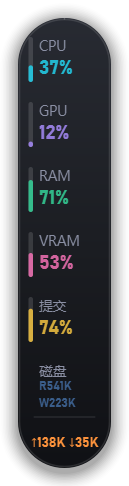
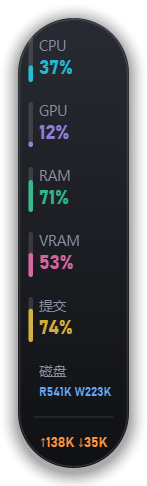
横版胶囊底部占用条去掉读写两段；竖版磁盘读写合并为单行，竖向胶囊加宽到 74

diff --git a/ui/island.py b/ui/island.py
@@ -116,7 +116,7 @@ class IslandWindow(QWidget):
     COLLAPSED_W = 420        # 右端速率贴紧指标后按实测最宽内容定的宽，整体更紧凑
     COLLAPSED_H_IDLE = 52
     COLLAPSED_H_PLAY = 68
-    SIDE_W = 62             # 贴左右两侧时的竖向胶囊（本体尺寸，不含 INSET）
+    SIDE_W = 74             # 贴左右两侧时的竖向胶囊（本体尺寸，不含 INSET）；磁盘读写合并一行后要更宽
     SIDE_H = 300
     PAGE_SIZES = {
         "monitor": QSize(640, 350),
@@ -2004,7 +2004,7 @@ class IslandWindow(QWidget):
                 p.drawText(QRectF(x + 8, cy - 12, avail, 24),
                            Qt.AlignLeft | Qt.AlignVCenter, net_txt)
 
-        # 底部：有声音就变成频谱律动，没声音回到占用条（CPU/GPU/RAM/VRAM/读/写 六段）
+        # 底部：有声音就变成频谱律动，没声音回到占用条（CPU/GPU/RAM/VRAM 四段）
         bar_y = body.bottom() - 3
         if self._spec_level > 0.01 or media.get("playing"):
             self._paint_micro_spec(
@@ -2014,18 +2014,15 @@ class IslandWindow(QWidget):
             return
         bar_h = 2.2
         gap = 6
-        disk_pct_r = min(100.0, (d.get("disk_r", 0.0) or 0.0) / 104857600.0 * 100.0)
-        disk_pct_w = min(100.0, (d.get("disk_w", 0.0) or 0.0) / 104857600.0 * 100.0)
         segs = [(pct, color) for _, _, pct, color in items]
-        segs += [(disk_pct_r, T.DISK), (disk_pct_w, T.DISK)]
         seg_w = (body.width() - margin * 2 - gap * (len(segs) - 1)) / float(len(segs))
         bx = left
-        for idx, (pct, color) in enumerate(segs):
+        for pct, color in segs:
             p.setPen(Qt.NoPen)
             p.setBrush(QColor(255, 255, 255, 22))
             p.drawRoundedRect(QRectF(bx, bar_y, seg_w, bar_h), 1.1, 1.1)
             c = T.load_color(pct, color)
-            c.setAlpha(130 if idx >= len(segs) - 2 and idx == len(segs) - 1 else 190)
+            c.setAlpha(190)
             p.setBrush(c)
             fill_w = seg_w * max(0.0, min(pct, 100.0)) / 100.0
             if fill_w > 1:
@@ -2097,14 +2094,12 @@ class IslandWindow(QWidget):
             p.setPen(T.MUTED)
             p.drawText(QRectF(tx, block_top, tw, 12), Qt.AlignLeft | Qt.AlignVCenter, label)
             if label == "磁盘":
-                # 磁盘读写速率两位太宽，拆成上下两行更清楚
+                # 竖版一行放不下两种速率，缩到 8px 单行写 R/W
                 p.setFont(vf_small)
                 p.setPen(T.DISK)
-                p.drawText(QRectF(tx, block_top + 11, tw, 11),
+                p.drawText(QRectF(tx, block_top + 13, tw, 14),
                            Qt.AlignLeft | Qt.AlignVCenter,
-                           f"R{self._brief_rate(d.get('disk_r', 0.0))}")
-                p.drawText(QRectF(tx, block_top + 22, tw, 11),
-                           Qt.AlignLeft | Qt.AlignVCenter,
+                           f"R{self._brief_rate(d.get('disk_r', 0.0))} "
                            f"W{self._brief_rate(d.get('disk_w', 0.0))}")
                 continue
             small = label in ("NET", "磁盘")

diff --git a/tools/side_w_measure.py b/tools/side_w_measure.py
@@ -1,0 +1,19 @@
+# -*- coding: utf-8 -*-
+"""量竖版磁盘行单行需要多宽，确定 SIDE_W。"""
+import os
+import sys
+
+sys.path.insert(0, r"D:\Doubao\桌面Hub")
+sys.path.insert(0, os.path.join(os.environ["APPDATA"], "Python", "Python313", "site-packages"))
+
+from PySide6.QtGui import QFontMetrics
+from PySide6.QtWidgets import QApplication
+from ui import theme as T
+
+app = QApplication(sys.argv)
+for size in (8, 7):
+    fm = QFontMetrics(T.font(size, True, True))
+    for s in ("R0B W0B", "R541K W223K", "R1.2M W3.4M", "R12.3M W45.6M", "R541K，W223K"):
+        print(f"{size}px  {s!r:16} -> {fm.horizontalAdvance(s)}px", flush=True)
+print("现有文字区宽：SIDE_W 62 时从 bar_x 起 =", 62 - 12, "px；从 tx 起 =", 62 - 19, "px", flush=True)
+os._exit(0)

diff --git a/README.md b/README.md
@@ -48,7 +48,7 @@
 
 ### 5. 桌面行为
 - **吸附屏幕四边**：启动贴在顶部正中间；拖动胶囊靠近任一边（48px 内）松手就吸附过去，四角按最近的边算
-  - 吸到**左/右**边自动翻成竖向胶囊（62×300）：CPU / GPU / 内存 / 显存 / 提交内存各占一行、一行一根竖条且与文字块上下对齐；磁盘读写和网速一样不画条，只给文字，网速单独压在最底部
+  - 吸到**左/右**边自动翻成竖向胶囊（74×300）：CPU / GPU / 内存 / 显存 / 提交内存各占一行、一行一根竖条且与文字块上下对齐；磁盘读写和网速一样不画条，只给文字（磁盘读写单行 `R541K W223K`），网速单独压在最底部
   - 收起态的横版胶囊里，网速和磁盘读写紧跟在四项指标后面（不甩到最右边），右端更紧凑
   - 吸到**底边**贴在任务栏上方，展开面板向上生长
 - **托盘/右键菜单「停靠位置」**：顶部居中 / 左侧竖排 / 右侧竖排 / 任务栏上方，点一下直接挪过去
